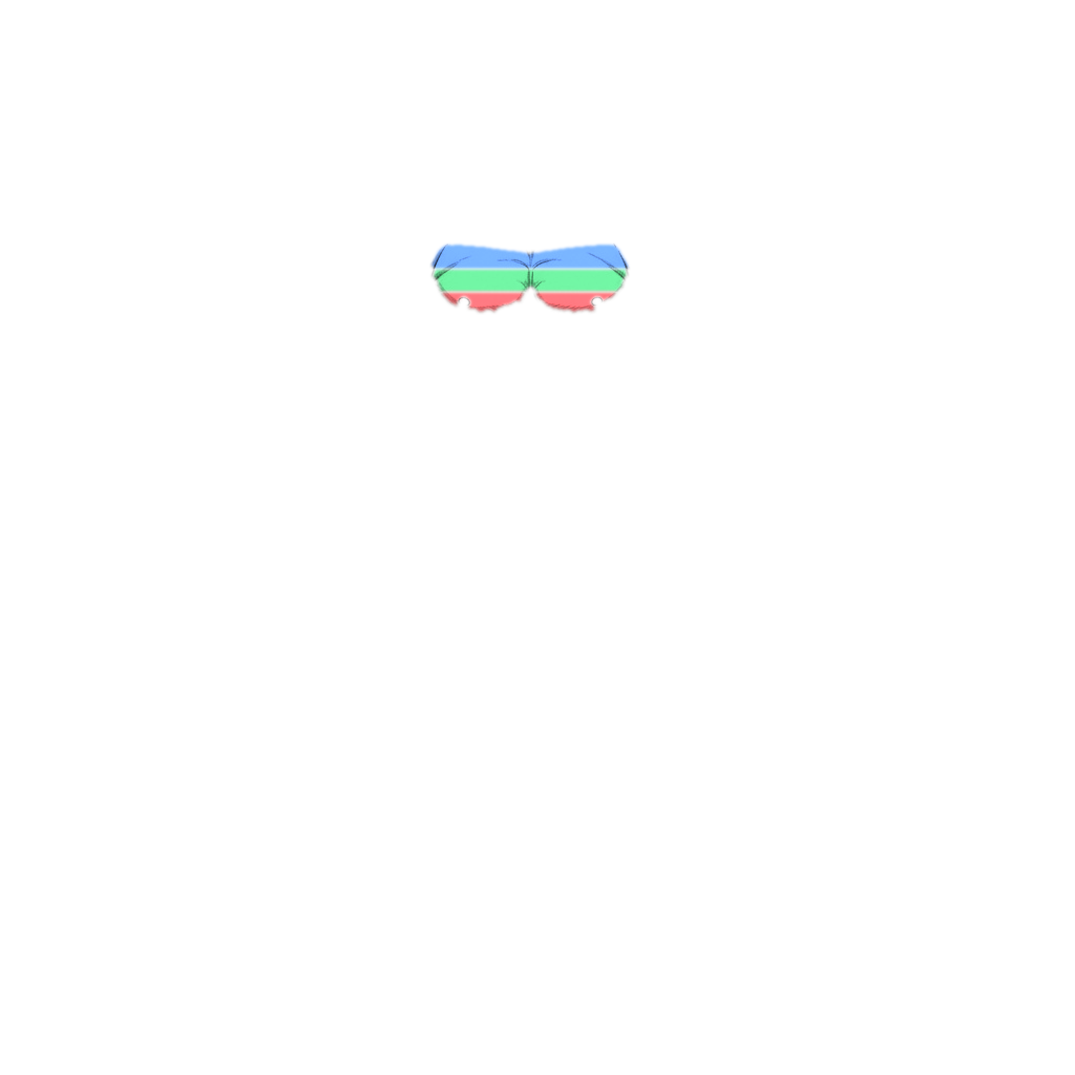
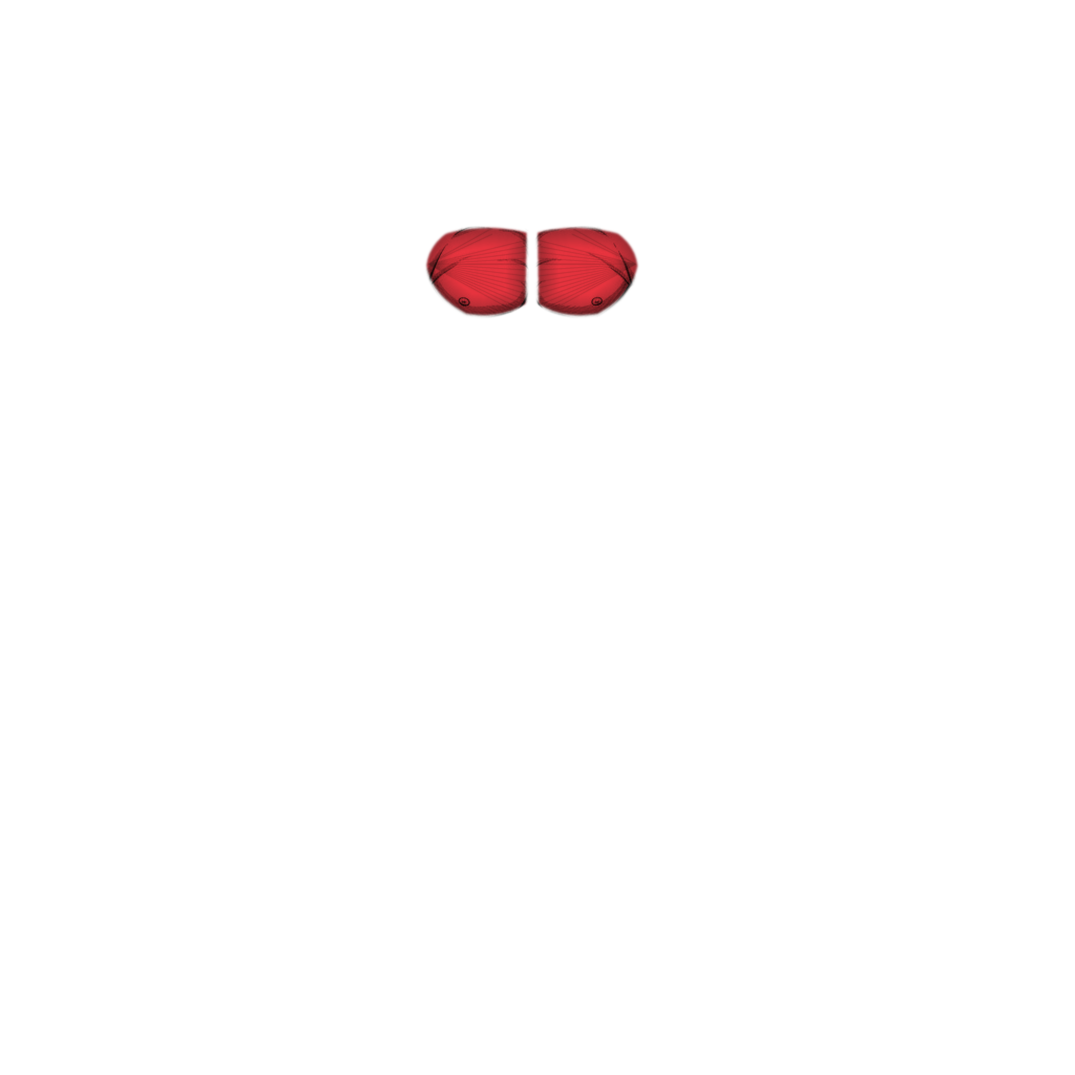
Pectoraux en rouge (forme anatomique + fibres) : miniatures et zones de la vidéo
Claude-Session: https://claude.ai/code/session_01HfTJRBKojVvCYkTdJc6zQ1

Changed region(s): [[0.3991, 0.1842, 0.614, 0.307]]

diff --git a/motion/youtube/v2/make_plan.py b/motion/youtube/v2/make_plan.py
@@ -11,9 +11,9 @@ S = [
  ([1], dict(card="here's the thing")),
  ([2], dict(img='skinny2', enter='fade', cam=[1.15, 0.5, 0.45, 1.2, 0.5, 0.45], slide={'to': 0.3, 'at': 0.05}, text='not one big muscle')),
  ([3], dict(img='base', hl='hl_all', hlAt=0.3, cam=[1.6, 0.5, 0.3, 2.0, 0.5, 0.28], say='three *parts*', spoken=LINES[3]['text'])),
- ([4], dict(img='base', hl='hl_upper', hlAt=0.15, cam=CH, tags=[tg('Upper', UP, 'blue')])),
- ([5], dict(img='base', hl='hl_um', hlAt=0.1, cam=[2.3, 0.5, 0.27, 2.4, 0.5, 0.27], tags=[tg('Upper', UP, 'blue', 0), tg('Middle', MID, 'green', 0.15)])),
- ([6], dict(img='base', hl='hl_all', hlAt=0.1, cam=[2.4, 0.5, 0.27, 2.5, 0.5, 0.27], tags=[tg('Upper', UP, 'blue', 0), tg('Middle', MID, 'green', 0), tg('Lower', LOW, 'red', 0.15)])),
+ ([4], dict(img='base', hl='hl_upper', hlAt=0.15, cam=CH, tags=[tg('Upper', UP, 'red')])),
+ ([5], dict(img='base', hl='hl_um', hlAt=0.1, cam=[2.3, 0.5, 0.27, 2.4, 0.5, 0.27], tags=[tg('Upper', UP, 'red', 0), tg('Middle', MID, 'red', 0.15)])),
+ ([6], dict(img='base', hl='hl_all', hlAt=0.1, cam=[2.4, 0.5, 0.27, 2.5, 0.5, 0.27], tags=[tg('Upper', UP, 'red', 0), tg('Middle', MID, 'red', 0), tg('Lower', LOW, 'red', 0.15)])),
  ([7], dict(img='skinny2', cam=[1.5, 0.5, 0.38, 1.7, 0.5, 0.34], icons=[{'kind': 'x', 'at': 0.45}])),
  ([8], dict(img='flex', enter='up', cam=[0.95, 0.5, 0.5, 1.1, 0.5, 0.45])),
  ([9, 10], dict(img='base', hl='hl_low', hlAt=0.45, cam=[1.0, 0.5, 0.5, 2.4, 0.5, 0.28], tags=[tg('Lower', LOW, 'red', 0.5)])),
@@ -35,7 +35,7 @@ S = [
  ([27], rep('inc_push_up', 'inc_push_down', 1.5, cam=[1.25, 0.5, 0.58, 1.3, 0.5, 0.58], text='2-3s', textAt=0.3, textY=0.2, textX=0.5)),
  ([28], rep('inc_push_up', 'inc_push_down', 0.8, cam=[1.3, 0.5, 0.58, 1.3, 0.5, 0.58])),
  ([29], dict(reps='max reps')),
- ([30], dict(img='base', hl='hl_mid', hlAt=0.3, cam=[1.0, 0.5, 0.5, 2.4, 0.5, 0.27], tags=[tg('Middle', MID, 'green', 0.4)])),
+ ([30], dict(img='base', hl='hl_mid', hlAt=0.3, cam=[1.0, 0.5, 0.5, 2.4, 0.5, 0.27], tags=[tg('Middle', MID, 'red', 0.4)])),
  ([31], dict(card='the foundation')),
  ([32], dict(medal='p_dumbbell', name='Dumbbell Bench Press', medalZoom=1.05)),
  ([33], dict(img='bench_up', enter='left', cam=[1.1, 0.5, 0.58, 1.2, 0.5, 0.56])),
@@ -52,7 +52,7 @@ S = [
  ([44], rep('deep_up', 'deep_down', 0.7, cam=[1.3, 0.55, 0.55, 1.3, 0.55, 0.55])),
  ([45], dict(reps='close to failure')),
  ([46], dict(card='the most important one')),
- ([47], dict(img='base', hl='hl_upper', hlAt=0.2, cam=[1.0, 0.5, 0.5, 2.4, 0.5, 0.26], tags=[tg('Upper', UP, 'blue', 0.3)])),
+ ([47], dict(img='base', hl='hl_upper', hlAt=0.2, cam=[1.0, 0.5, 0.5, 2.4, 0.5, 0.26], tags=[tg('Upper', UP, 'red', 0.3)])),
  ([48], dict(img='skinny2', cam=[1.1, 0.5, 0.45, 1.25, 0.5, 0.4], seq=[{'at': 0.45, 'img': 'flex'}], say='full *chest*', spoken=LINES[48]['text'])),
  ([49], dict(medal='p_bench', name='Incline Dumbbell Press', medalZoom=1.1)),
  ([50], dict(img='p_bench', enter='fade', cam=[1.0, 0.5, 0.6, 1.1, 0.45, 0.62], text='30°', textAt=0.35, textX=0.5, textY=0.2)),
